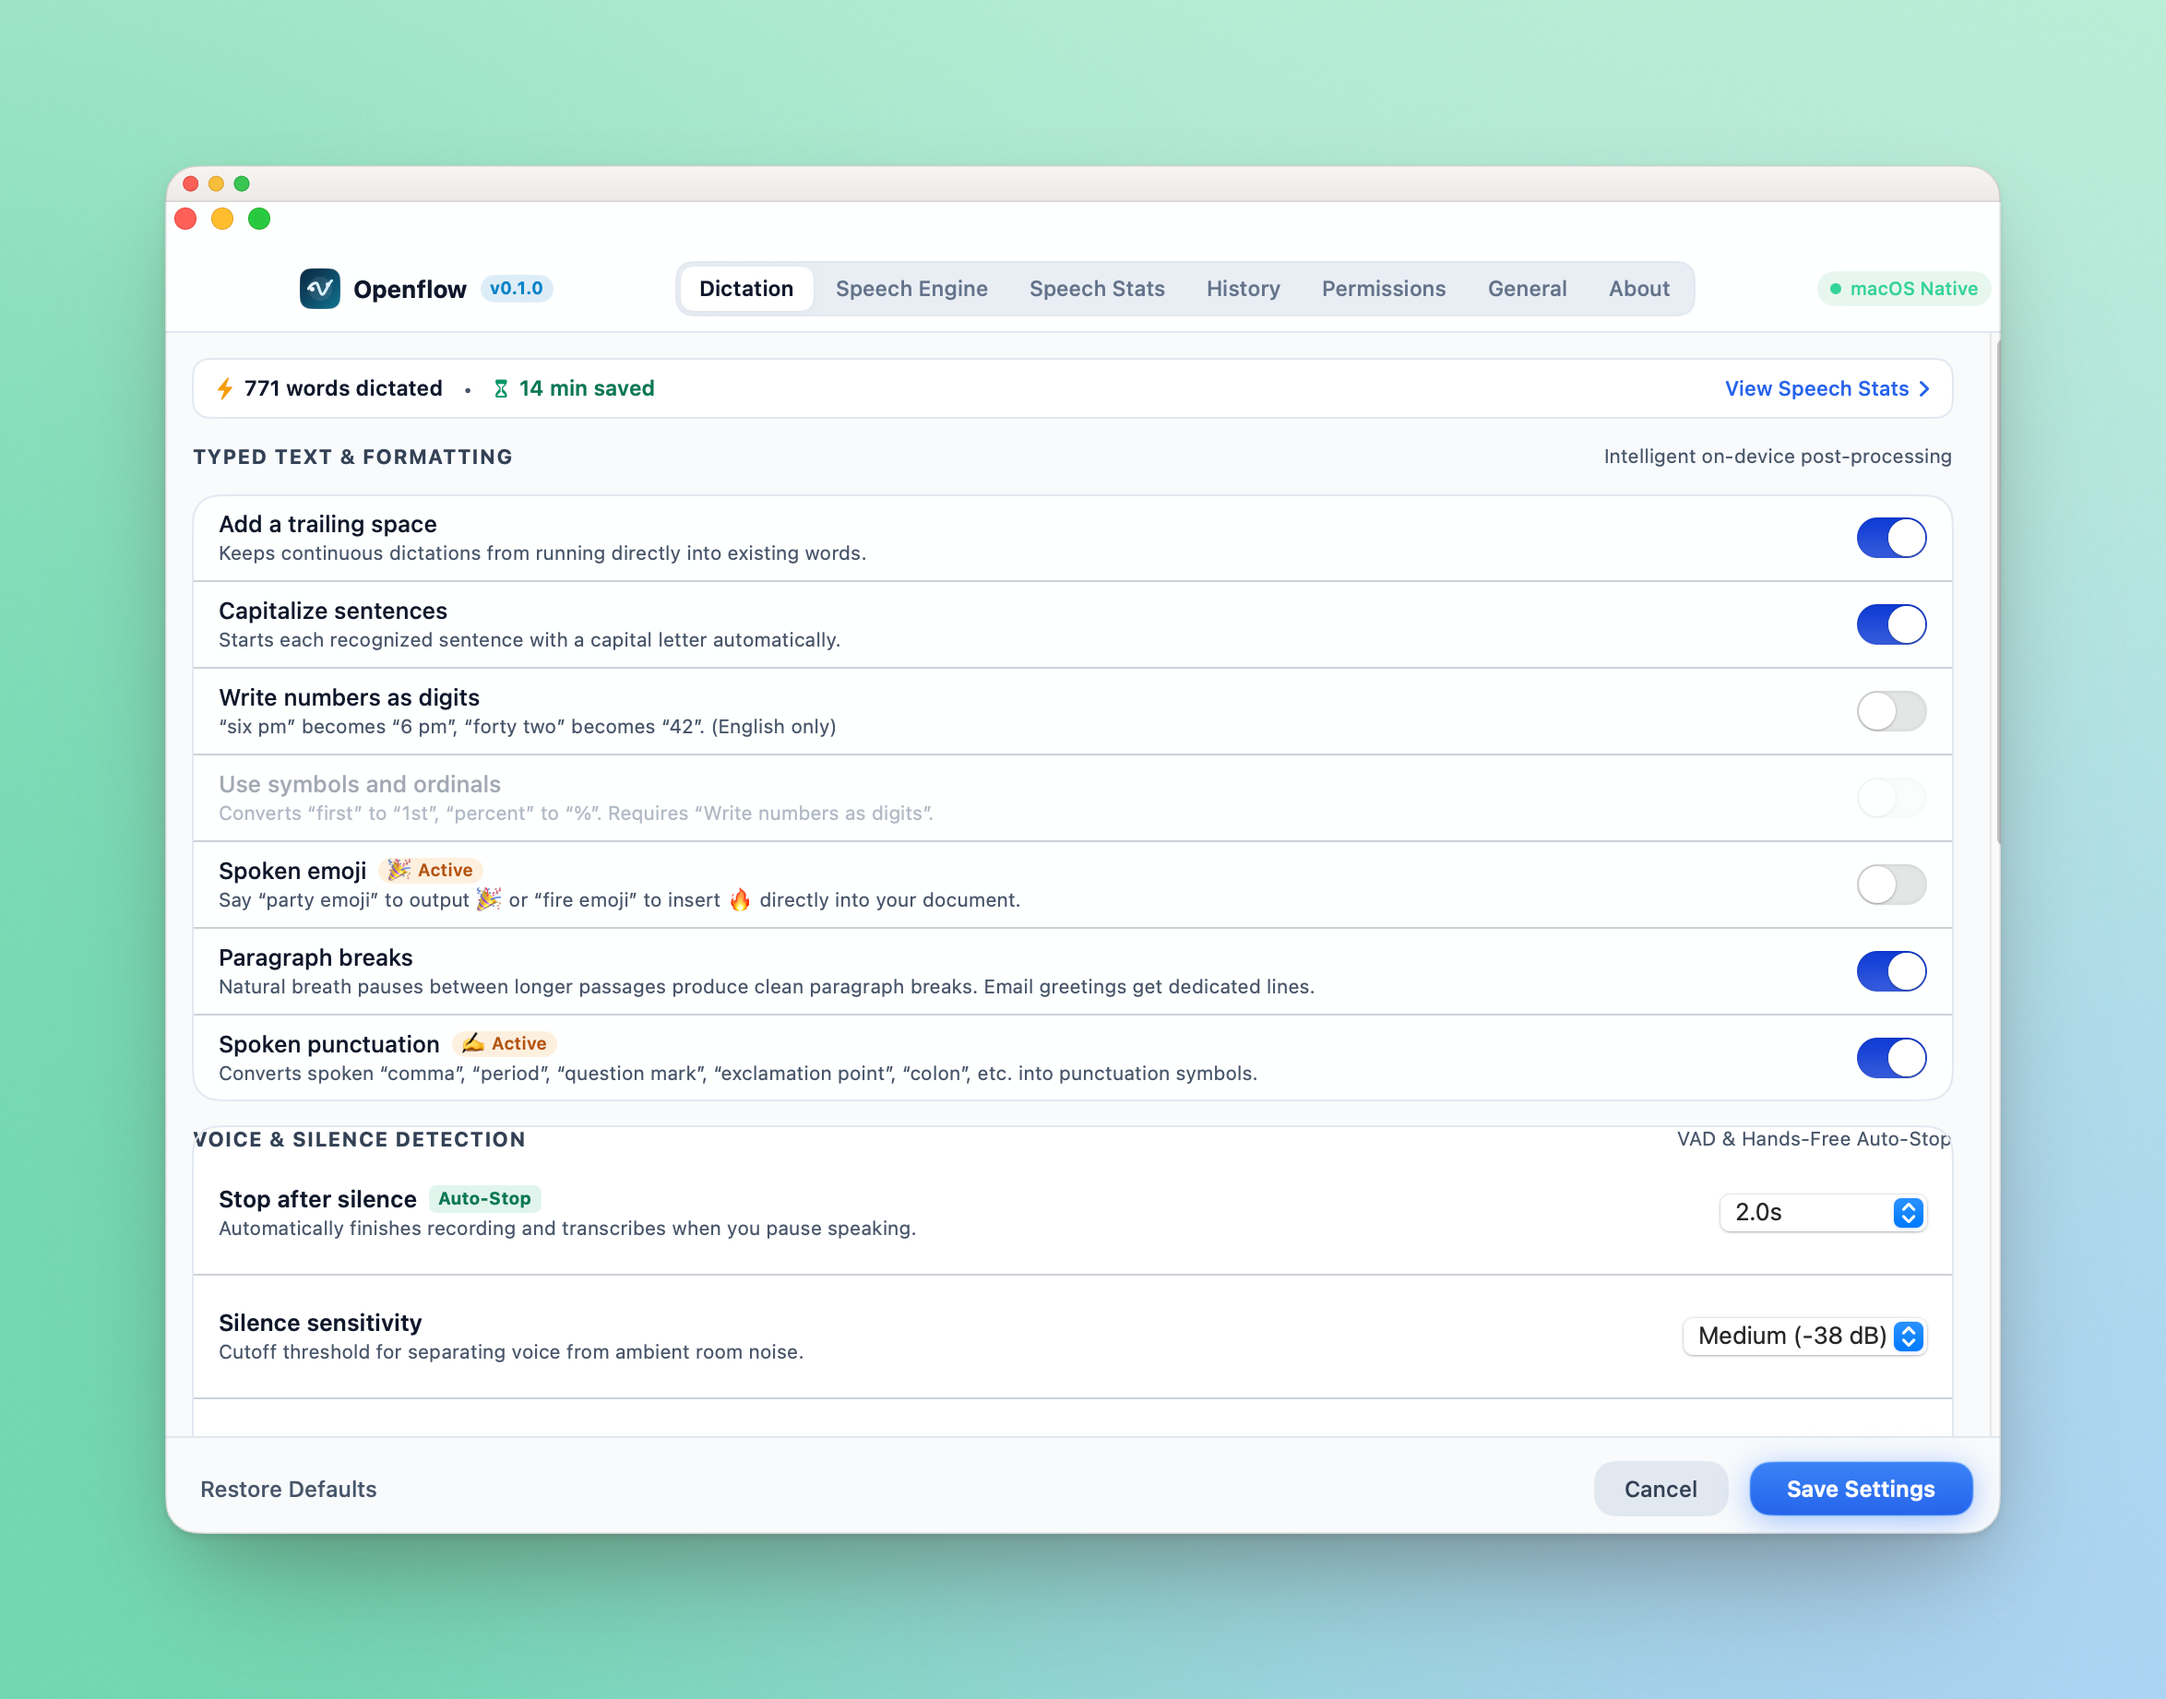
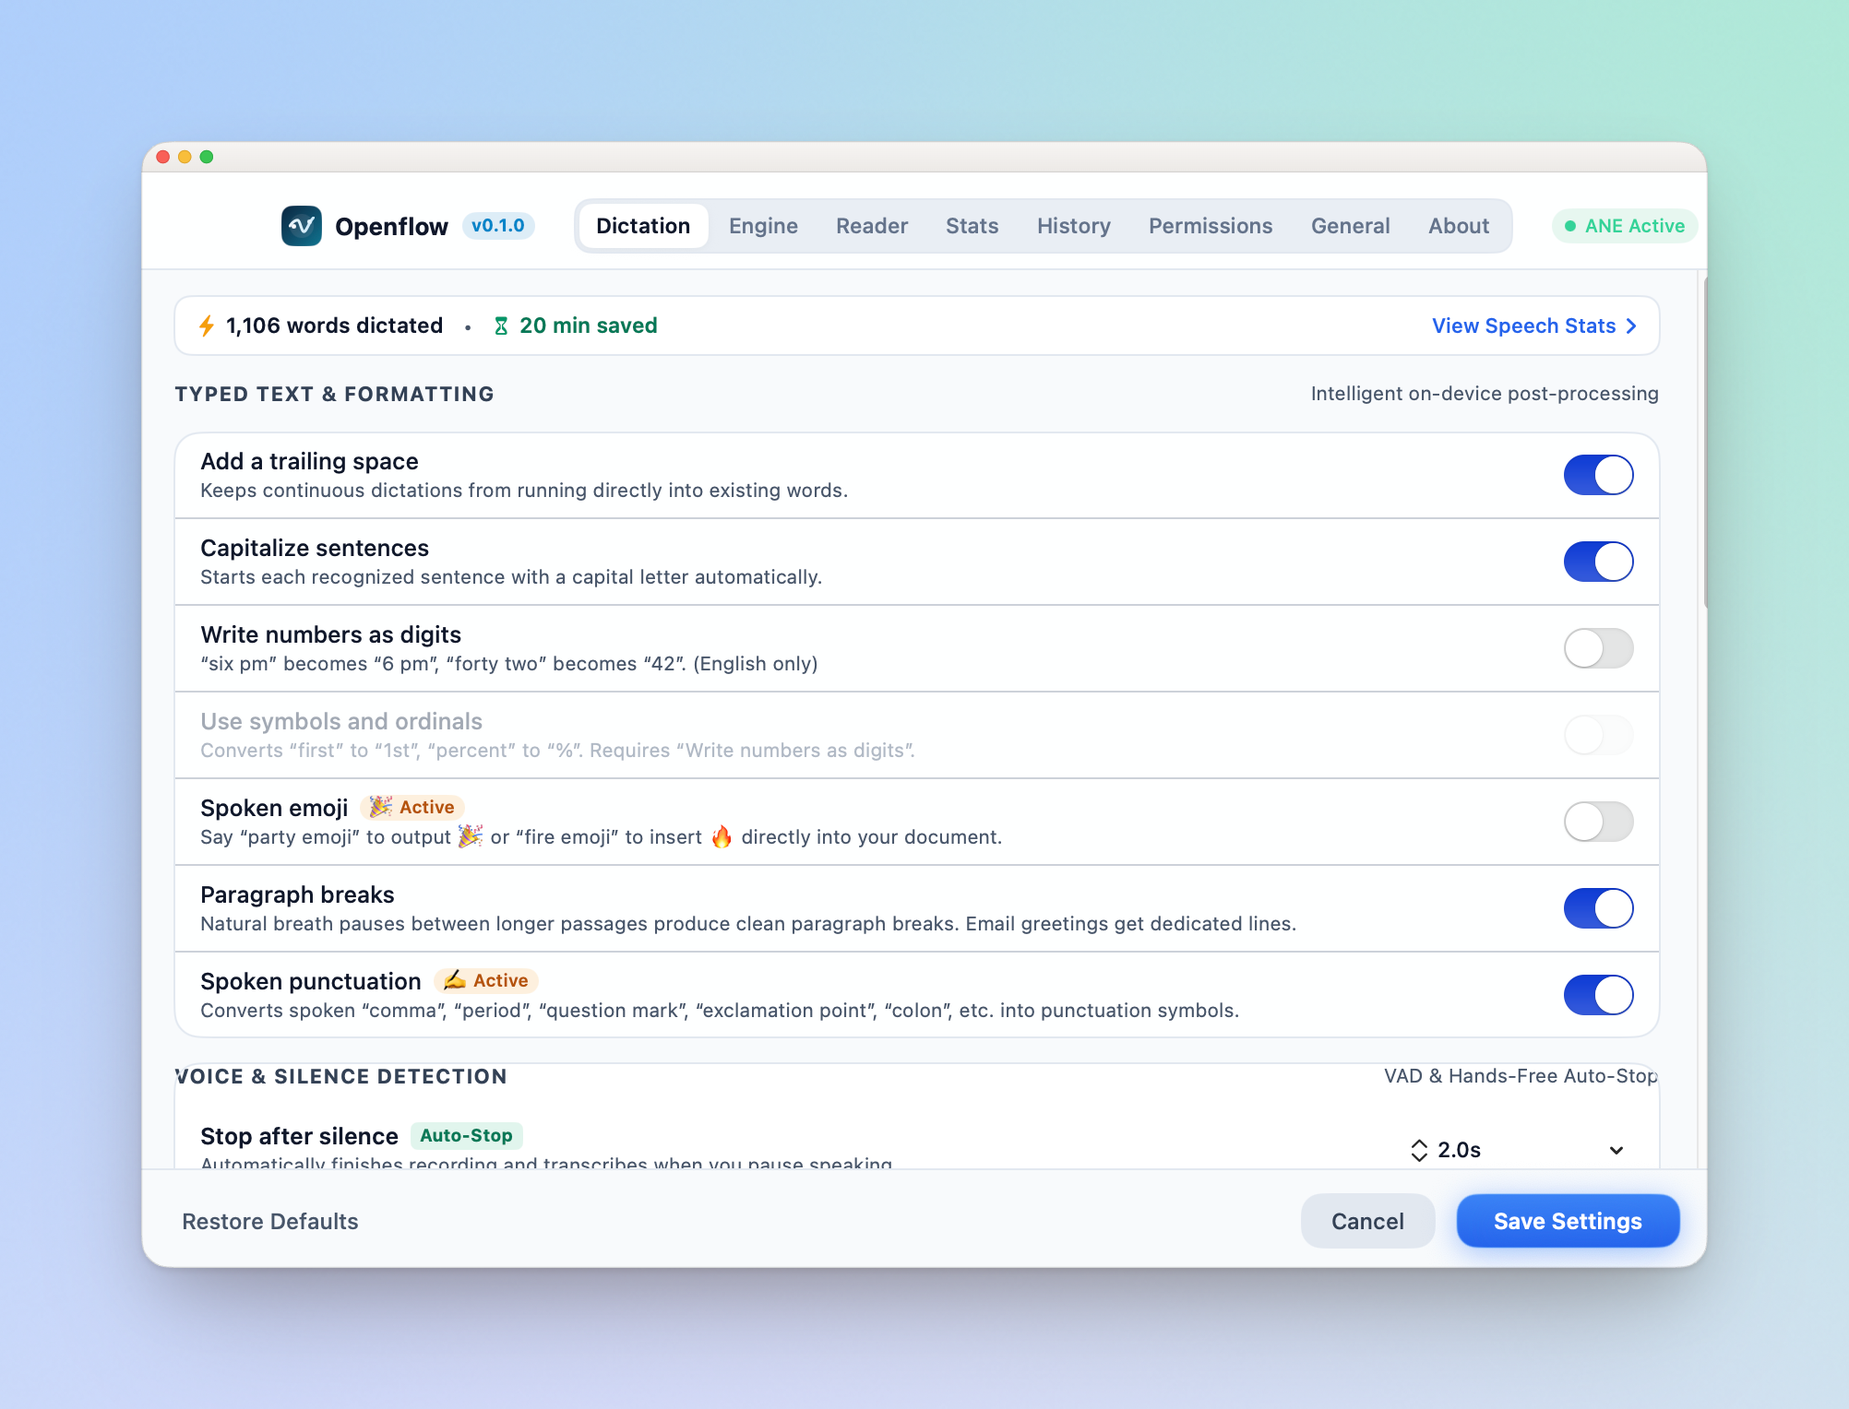
docs: rename new screenshots and update README with Speech Reader & Engine features

diff --git a/README.md b/README.md
@@ -76,6 +76,17 @@ Powered by **WhisperKit CoreML** and **Apple Speech**, Openflow runs completely 
 - **Dark & Light Mode:** Thoughtfully designed UI that seamlessly adapts to your preferred macOS appearance.
 - **Speech Analytics & History:** Monitor words dictated, estimated minutes saved, active RAM/CPU footprint, and past transcripts.
 
+### 📖 Studio-Grade Speech Reader (Kokoro-82M TTS)
+- **Document & Book Narration:** Read aloud books, research papers, and documents (`.pdf`, `.txt`, `.md`, `.rtf`) or clipboard text with studio-grade on-device voice synthesis.
+- **Kokoro-82M AI CoreML:** 15 curated American & British voices accelerated natively on the Apple Neural Engine (ANE).
+- **Paragraph & Sentence Modes:** Switch between **Paragraph Mode** (continuous audiobook-style cadence) and **Sentence Mode** (granular rewind/forward navigation).
+- **Zero-Latency Background Pre-buffering:** Asynchronously synthesizes upcoming text chunks while current audio plays for zero-gap speech.
+- **Floating Mini-Player HUD:** Always-on-top compact reader with playback controls, sentence scrub bar, and variable speed adjustments (0.5x–2.0x).
+
+### 🧹 Model Storage & RAM Offloading
+- **Manual RAM Offload:** Unload speech recognition or TTS models from unified memory with a single click to keep Openflow's footprint ultralight when idle.
+- **Disk Cache Management:** Delete individual model weights (WhisperKit or Kokoro) directly from Settings to reclaim disk space, with instant one-tap redownloads.
+
 ---
 
 ## 📸 Screenshots & Interface
@@ -83,12 +94,21 @@ Powered by **WhisperKit CoreML** and **Apple Speech**, Openflow runs completely 
 <table>
   <tr>
     <td width="50%" align="center">
-      <strong>Productivity & Speed Analytics</strong><br/><br/>
-      <a href="screenshot/productivity-stats.png">
-        <img src="screenshot/productivity-stats.png" alt="Speech & Productivity Stats" width="100%" />
+      <strong>Speech Engine & Neural Inference</strong><br/><br/>
+      <a href="screenshot/speech-engine-settings.png">
+        <img src="screenshot/speech-engine-settings.png" alt="Speech Engine & Hardware Acceleration" width="100%" />
       </a>
-      <p align="left"><em>Real-time metrics tracking words dictated, typing time saved, speaking pace (WPM), active workflow applications, and engine distribution.</em></p>
+      <p align="left"><em>Select between WhisperKit CoreML (Apple Neural Engine), native Apple Speech, or Remote Server with live RAM, CPU, and model footprint diagnostics.</em></p>
     </td>
+    <td width="50%" align="center">
+      <strong>Speech Reader & Book Narration</strong><br/><br/>
+      <a href="screenshot/speech-reader.png">
+        <img src="screenshot/speech-reader.png" alt="Kokoro-82M Speech Reader & Floating Player" width="100%" />
+      </a>
+      <p align="left"><em>Studio-grade Kokoro-82M neural TTS with 15 voices, document upload (.pdf, .txt, .md), paragraph/sentence segmentation, and floating player.</em></p>
+    </td>
+  </tr>
+  <tr>
     <td width="50%" align="center">
       <strong>Dictation & Formatting Control</strong><br/><br/>
       <a href="screenshot/dictation-settings.png">
@@ -96,14 +116,21 @@ Powered by **WhisperKit CoreML** and **Apple Speech**, Openflow runs completely 
       </a>
       <p align="left"><em>Intelligent post-processing: spoken emoji, spoken punctuation, trailing space handling, sentence capitalization, and configurable VAD auto-stop silence thresholds.</em></p>
     </td>
-  </tr>
-  <tr>
     <td width="50%" align="center">
       <strong>Appearance & Shortcuts</strong><br/><br/>
       <a href="screenshot/general-settings.png">
         <img src="screenshot/general-settings.png" alt="General Settings & Shortcuts" width="100%" />
       </a>
       <p align="left"><em>Dual theme support (Light, Dark, System Auto), single-key activation presets (Right Option, F5, Fn/Globe), and direct-to-app or clipboard output routing.</em></p>
+    </td>
+  </tr>
+  <tr>
+    <td width="50%" align="center">
+      <strong>Productivity & Speed Analytics</strong><br/><br/>
+      <a href="screenshot/productivity-stats.png">
+        <img src="screenshot/productivity-stats.png" alt="Speech & Productivity Stats" width="100%" />
+      </a>
+      <p align="left"><em>Real-time metrics tracking words dictated, typing time saved, speaking pace (WPM), active workflow applications, and engine distribution.</em></p>
     </td>
     <td width="50%" align="center">
       <strong>Menu Bar Diagnostics & Hero Controls</strong><br/><br/>
